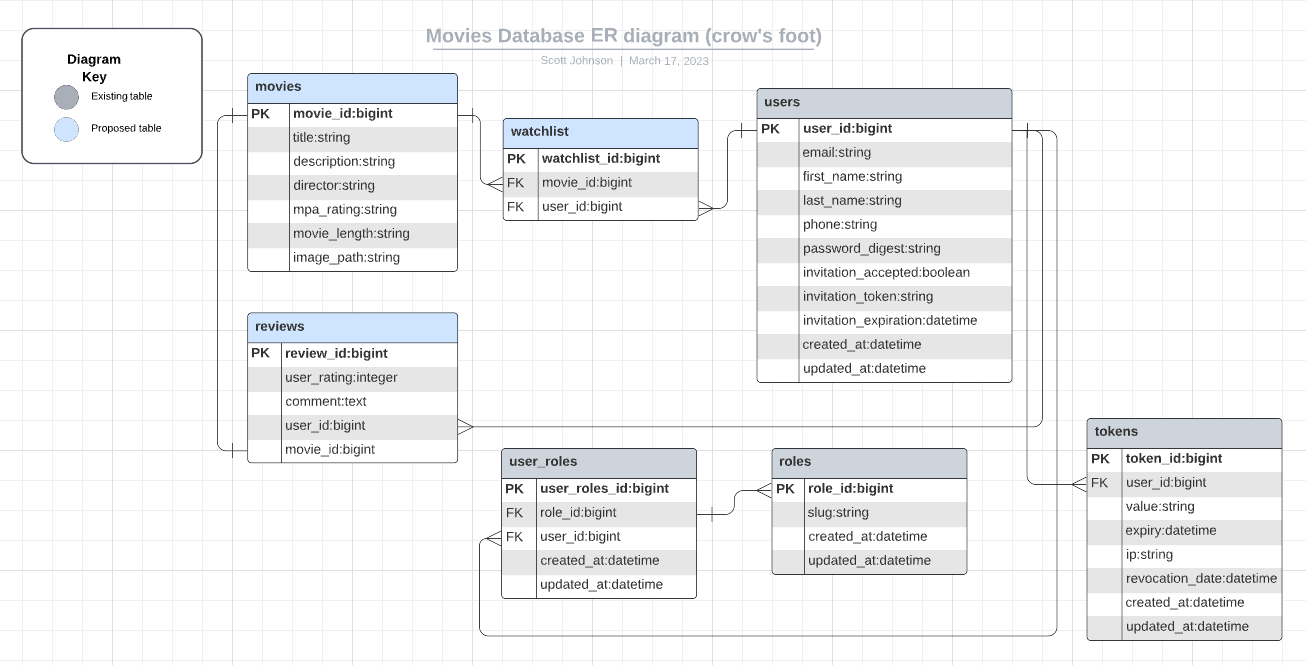
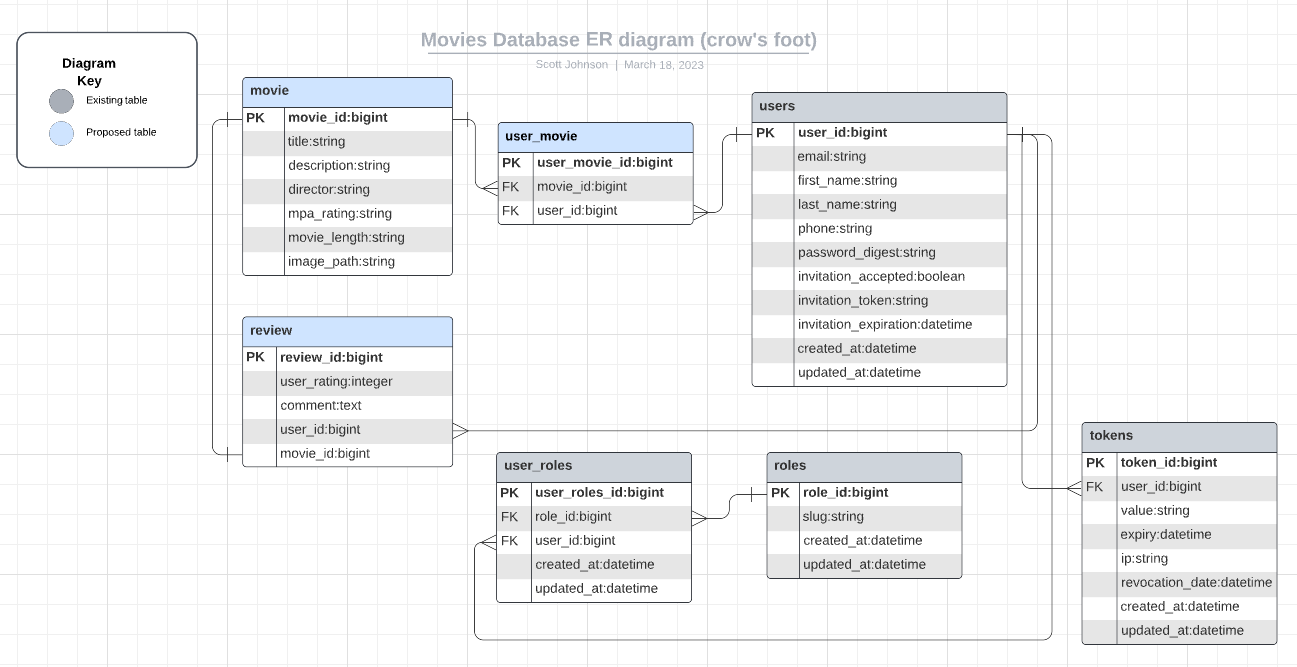
models, tables, initial setup

diff --git a/db/schema.rb b/db/schema.rb
@@ -10,9 +10,36 @@
 #
 # It's strongly recommended that you check this file into your version control system.
 
-ActiveRecord::Schema[7.0].define(version: 2021_11_22_185403) do
+ActiveRecord::Schema[7.0].define(version: 2023_03_18_172741) do
   # These are extensions that must be enabled in order to support this database
   enable_extension "plpgsql"
+
+  create_table "movie_users", force: :cascade do |t|
+    t.bigint "movie_id"
+    t.bigint "user_id"
+    t.datetime "created_at", null: false
+    t.datetime "updated_at", null: false
+  end
+
+  create_table "movies", force: :cascade do |t|
+    t.string "title"
+    t.string "description"
+    t.string "director"
+    t.string "mpa_rating"
+    t.string "movie_length"
+    t.string "image_path"
+    t.datetime "created_at", null: false
+    t.datetime "updated_at", null: false
+  end
+
+  create_table "reviews", force: :cascade do |t|
+    t.integer "user_rating"
+    t.text "comment"
+    t.bigint "user_id"
+    t.bigint "movie_id"
+    t.datetime "created_at", null: false
+    t.datetime "updated_at", null: false
+  end
 
   create_table "roles", force: :cascade do |t|
     t.string "slug"

diff --git a/app/controllers/api/v1/movies_controller.rb b/app/controllers/api/v1/movies_controller.rb
@@ -1,0 +1,23 @@
+module Api 
+  module V1 
+    class MoviesController < Api::V1::ApplicationController 
+      def create 
+        result = Movies::Operations.new_movie(params, @current_user)
+        render_error(errors: result.errors.all, status: 400) and return unless result.success?
+        payload = {
+          movie: MovieBlueprint.render_as_hash(result.payload), status: 201
+        }
+        render_success(payload: payload)
+      end
+
+      def update  
+        result = Movies::Operations.update_movie(params, @current_user)
+          render_error(errors: result.errors.all, status: 400) and return unless result.success?
+          payload = {
+            movie: MovieBlueprint.render_as_hash(result.payload), status: 201
+          }
+          render_success(payload: payload)
+      end
+    end
+  end
+end

diff --git a/app/models/user.rb b/app/models/user.rb
@@ -31,10 +31,10 @@ class User < ApplicationRecord
   scope :invite_not_expired, -> { where('invitation_expiration > ?', DateTime.now) }
   scope :invite_token_is, ->(invitation_token) { where(invitation_token: invitation_token) }
 
-  # Callbacks
-  before_create :generate_invitation_token
-  before_save :generate_invitation_token, if: :will_save_change_to_invitation_token?
-  after_commit :invite_user, if: :saved_change_to_invitation_token?
+  # # Callbacks
+  # before_create :generate_invitation_token
+  # before_save :generate_invitation_token, if: :will_save_change_to_invitation_token?
+  # after_commit :invite_user, if: :saved_change_to_invitation_token?
 
   def generate_token!(ip)
     token = Token.create(

diff --git a/app/services/base_api/users.rb b/app/services/base_api/users.rb
@@ -22,6 +22,18 @@ module BaseApi
       ServiceContract.success(user)
     end
 
+    def self.update_user(params)
+      user = User.find(params[:id])
+      return ServiceContract.success(user) if user.update(first_name: params[:first_name],
+        last_name: params[:last_name],
+        email: params[:email],
+        phone: params[:phone],
+        password: params[:password],
+        password_confirmation: params[:password_confirmation])
+      
+      ServiceContract.error(user.errors.full_messages)
+    end
+
     def self.destroy_user(user_id)
       user = User.find(user_id)
       return ServiceContract.error('Error deleting user') unless user.destroy

diff --git a/app/controllers/api/v1/users_controller.rb b/app/controllers/api/v1/users_controller.rb
@@ -35,6 +35,16 @@ module Api
         render_success(payload: payload, status: 201)
       end
 
+      def update
+        
+        result = BaseApi::Users.update_user(params)
+        render_error(errors: result.errors.all, status: 400) and return unless result.success?
+        payload = {
+          user: UserBlueprint.render_as_hash(result.payload, view: :normal)
+        }
+        render_success(payload: payload, status: 201)
+      end
+
       def me
         render_success(payload: UserBlueprint.render_as_hash(@current_user), status: 200)
       end

diff --git a/app/services/movies/operations.rb b/app/services/movies/operations.rb
@@ -1,0 +1,11 @@
+module Movies 
+  module Operations 
+    def self.new_movie(params, current_user)
+      movie = current_user.movie.new(title: params[:title], description: params[:description], director: params[:director], mpa_rating: params[:mpa_rating], movie_length: params[:movie_length], image_path: [:image_path])
+
+      return ServiceContract.success(movie) if movie.save
+
+      ServiceContract.error(movie.errors.full_messages)
+    end
+  end
+end

diff --git a/db/migrate/20230318171740_create_reviews.rb b/db/migrate/20230318171740_create_reviews.rb
@@ -1,0 +1,12 @@
+class CreateReviews < ActiveRecord::Migration[7.0]
+  def change
+    create_table :reviews do |t|
+      t.integer :user_rating
+      t.text :comment
+      t.bigint :user_id, null: false, foreign_key: true
+      t.bigint :movie_id, null: false, foreign_key: true
+
+      t.timestamps
+    end
+  end
+end

diff --git a/db/migrate/20230318171711_create_movies.rb b/db/migrate/20230318171711_create_movies.rb
@@ -1,0 +1,14 @@
+class CreateMovies < ActiveRecord::Migration[7.0]
+  def change
+    create_table :movies do |t|
+      t.string :title
+      t.string :description
+      t.string :director
+      t.string :mpa_rating
+      t.string :movie_length
+      t.string :image_path
+
+      t.timestamps
+    end
+  end
+end

diff --git a/config/routes.rb b/config/routes.rb
@@ -23,10 +23,12 @@ Rails.application.routes.draw do
     namespace :v1 do
       namespace :users do
         post :login
+        put :update
         delete :logout
         get :me
         post :create
       end
+      resources :movies 
     end
   end
 end

diff --git a/spec/factories/movies.rb b/spec/factories/movies.rb
@@ -1,0 +1,10 @@
+FactoryBot.define do
+  factory :movie do
+    title { "MyString" }
+    description { "MyString" }
+    director { "MyString" }
+    mpa_rating { "MyString" }
+    movie_length { "MyString" }
+    image_path { "MyString" }
+  end
+end

diff --git a/app/models/movie.rb b/app/models/movie.rb
@@ -1,0 +1,6 @@
+class Movie < ApplicationRecord
+  has_many :users, through: :movie_user
+  has_many :users, through: :review 
+
+  validate :title, :description, :director, :mpa_rating, :movie_length, :image_path
+end

diff --git a/db/migrate/20230318172741_create_movie_users.rb b/db/migrate/20230318172741_create_movie_users.rb
@@ -1,0 +1,10 @@
+class CreateMovieUsers < ActiveRecord::Migration[7.0]
+  def change
+    create_table :movie_users do |t|
+      t.bigint :movie_id
+      t.bigint :user_id
+
+      t.timestamps
+    end
+  end
+end
